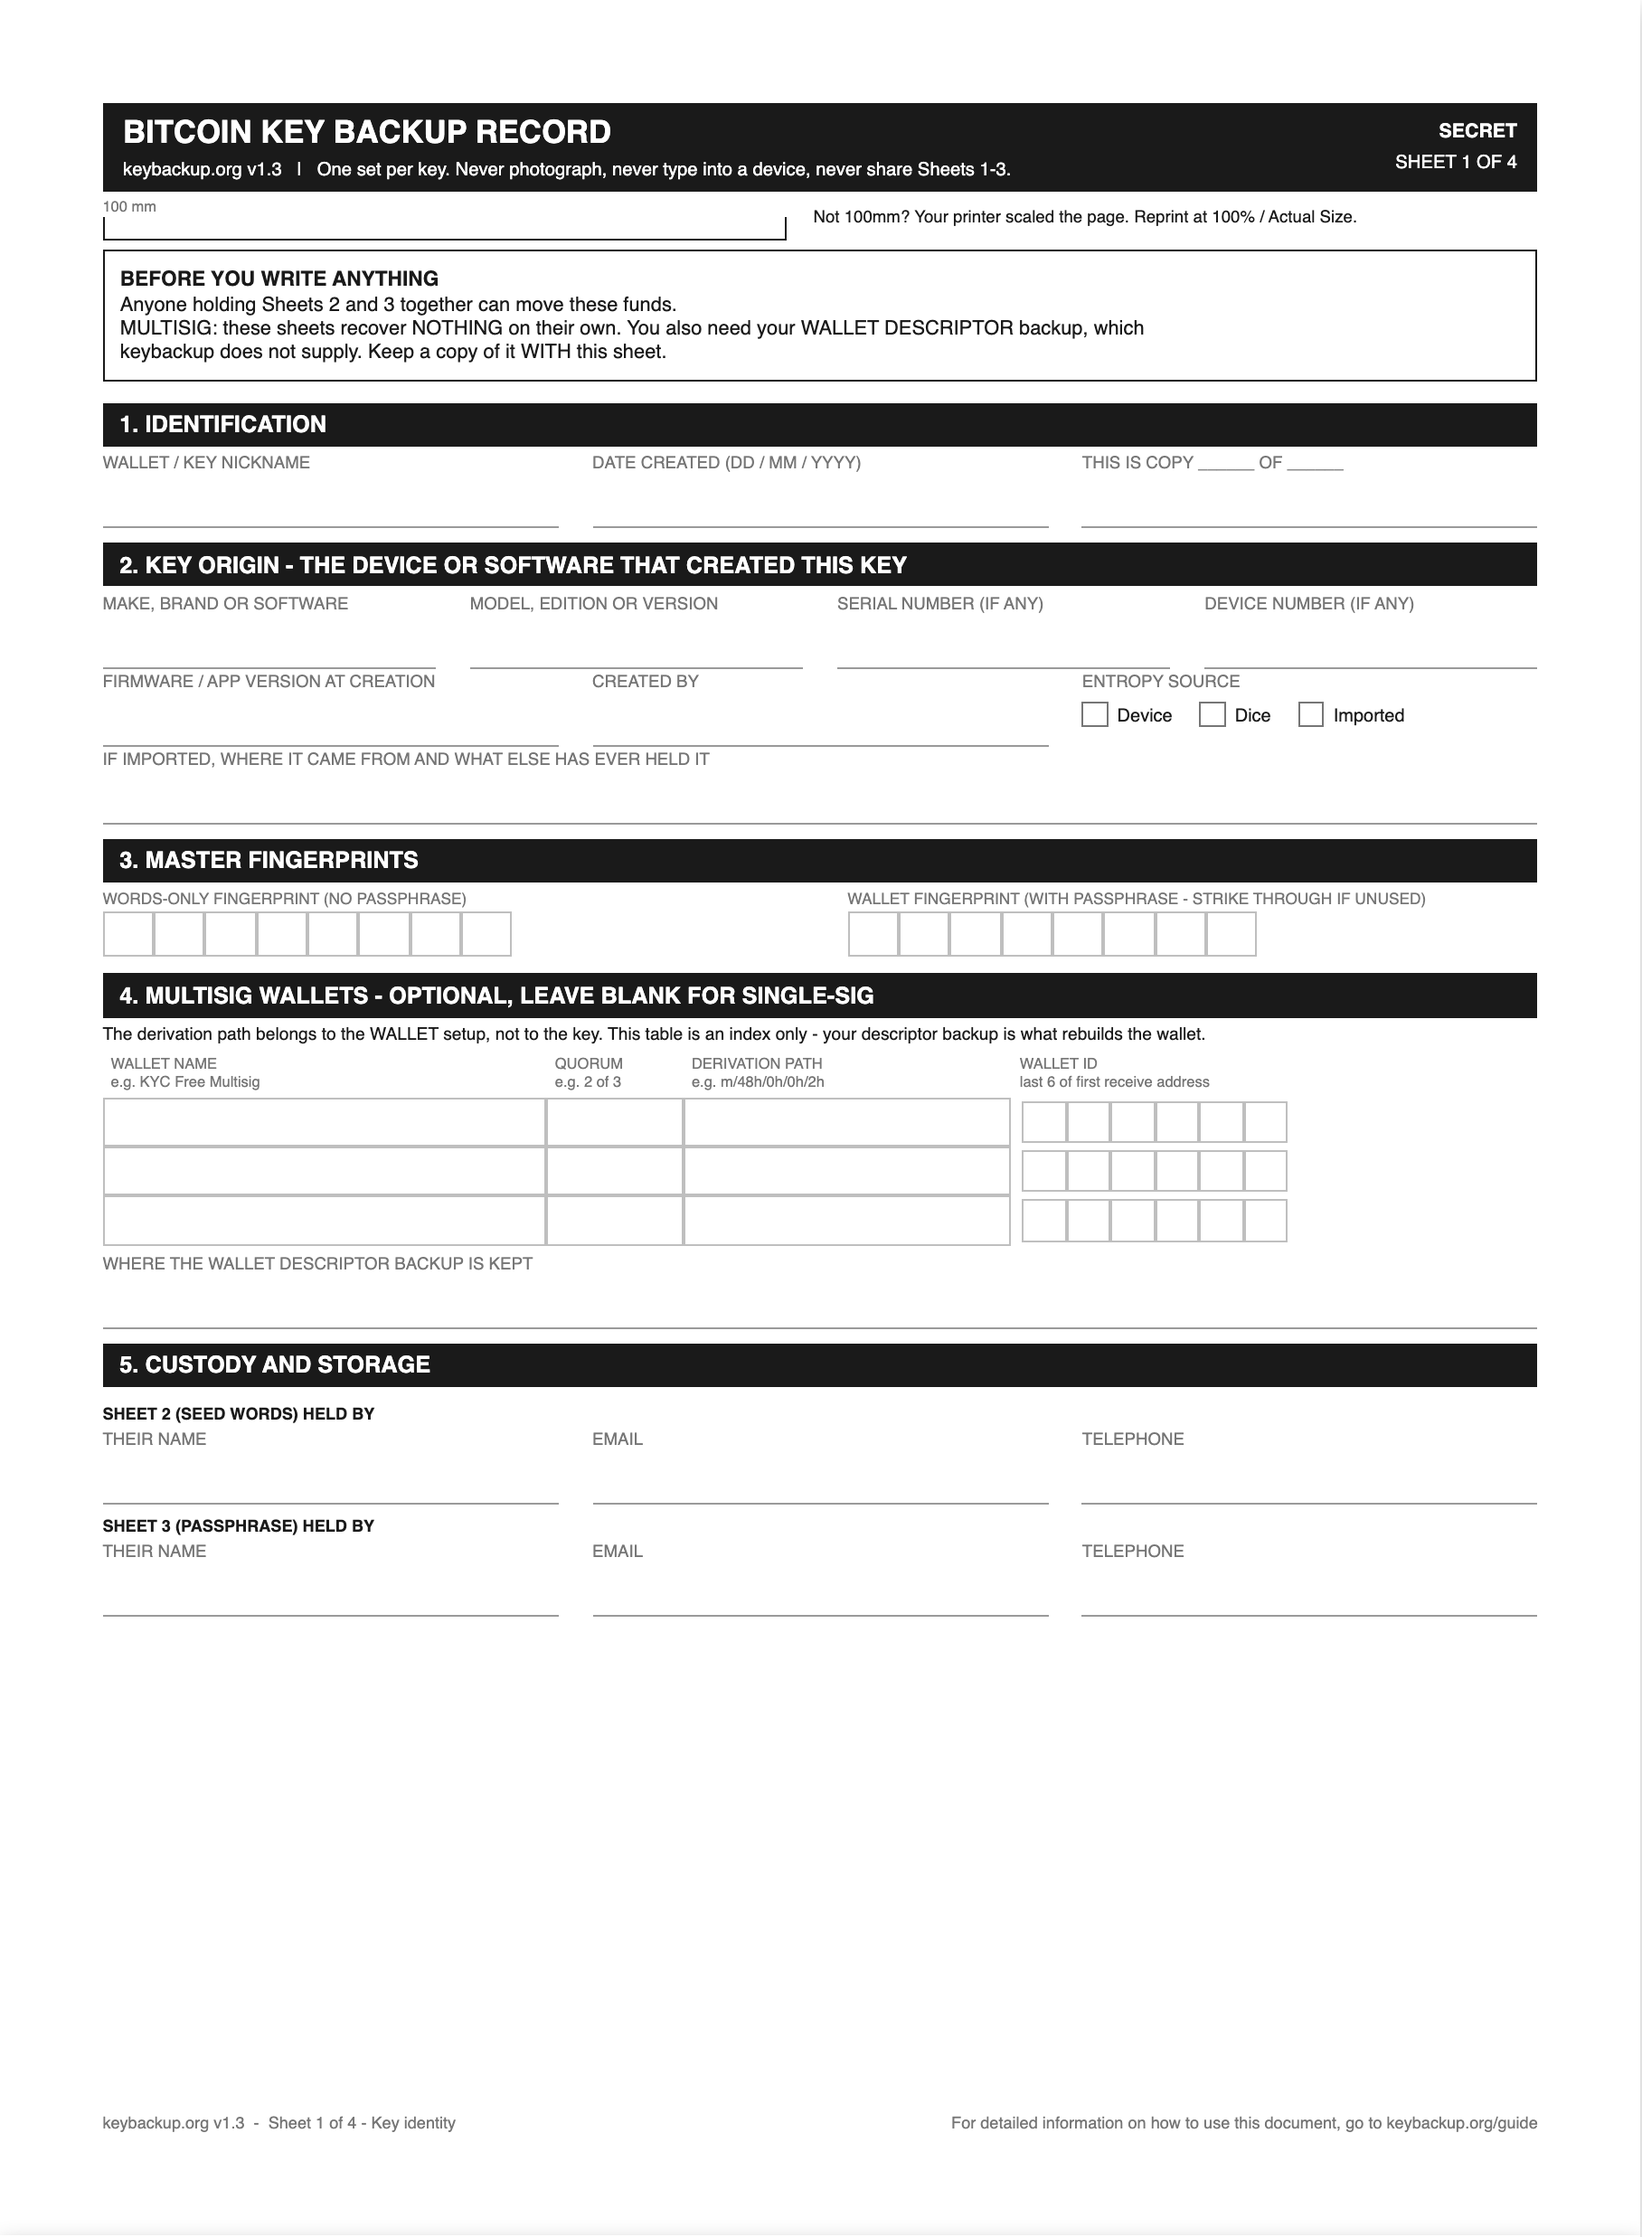
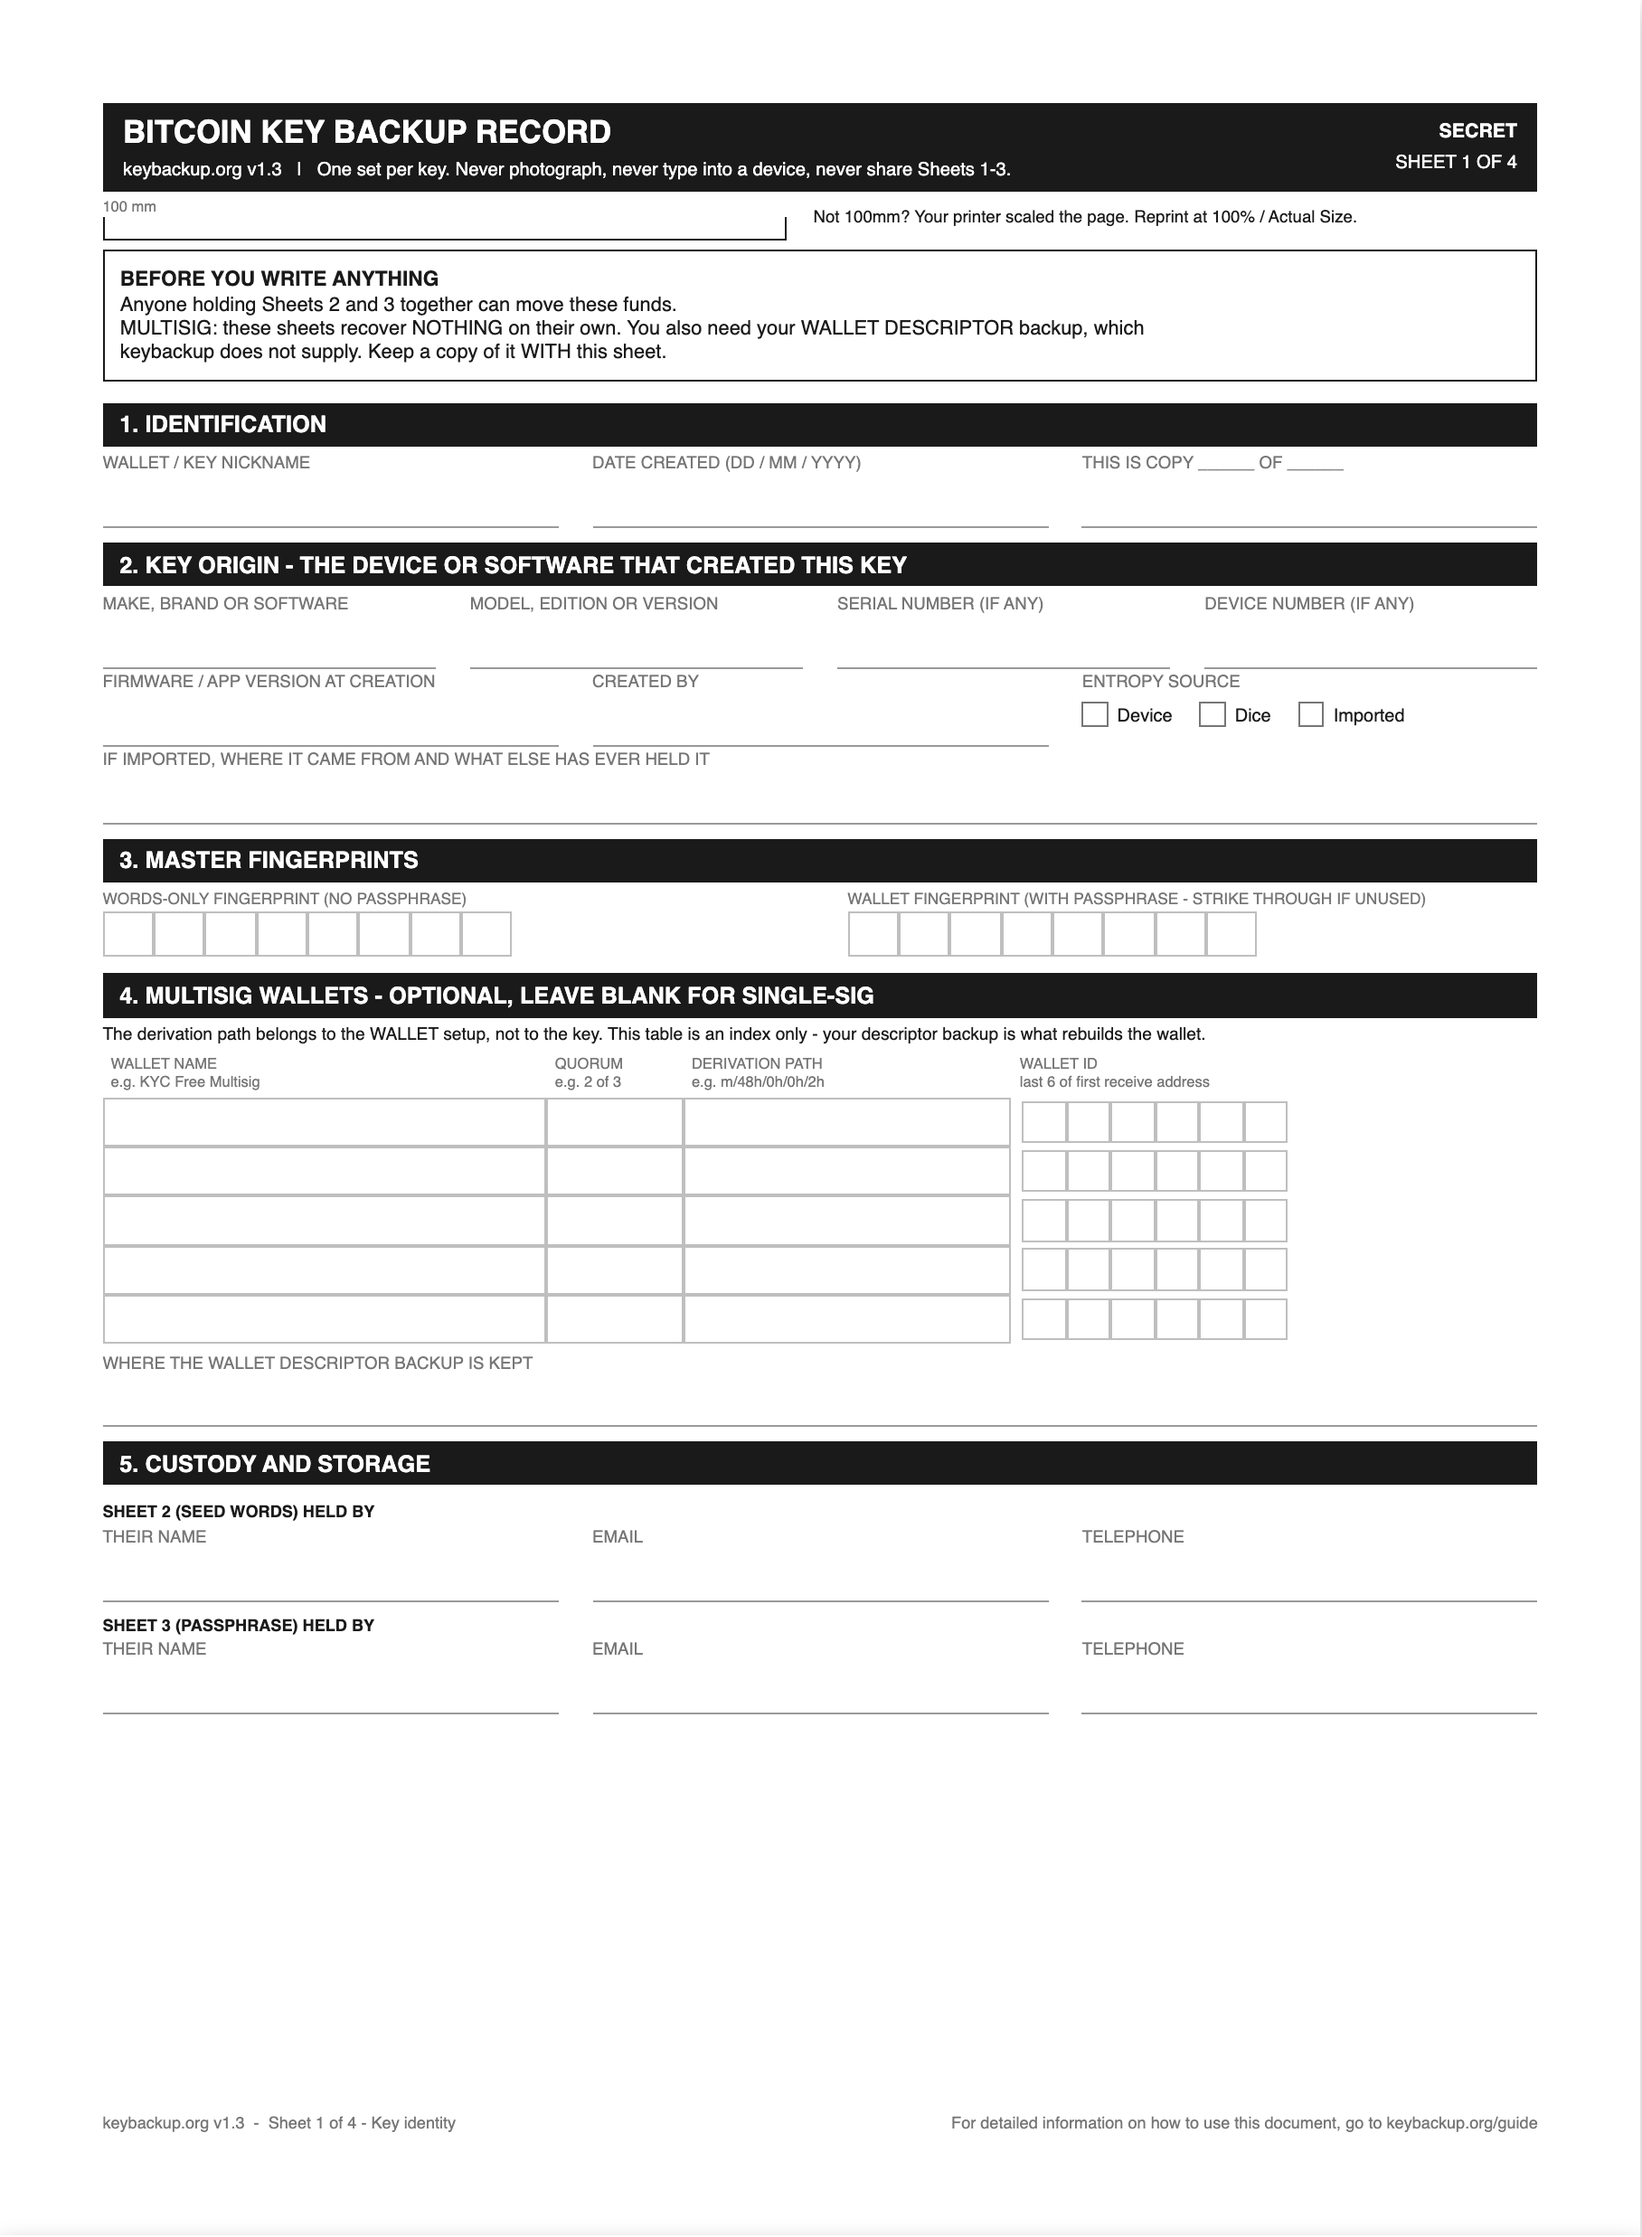
Expand v1.3 multisig table

Changed region(s): [[0.0617, 0.5602, 0.9559, 0.747]]

diff --git a/public/keybackup-v1.3.html b/public/keybackup-v1.3.html
@@ -296,7 +296,6 @@ body.letter .sheet { width: 186mm; }   /* Letter content width: 216 - 30 */
 .step p {
   font-size: 7.6pt;
   line-height: 1.2;
-  margin-left: 4mm;
   margin-top: 0.7mm;
 }
 
@@ -420,6 +419,14 @@ body.letter .sheet { width: 186mm; }   /* Letter content width: 216 - 30 */
       <span class="c2">QUORUM<span class="sub2">e.g. 2 of 3</span></span>
       <span class="c3">DERIVATION PATH<span class="sub2">e.g. m/48h/0h/0h/2h</span></span>
       <span>WALLET ID<span class="sub2">last 6 of first receive address</span></span>
+    </div>
+    <div class="msrow">
+      <div class="c c1"></div><div class="c c2"></div><div class="c c3"></div>
+      <div class="boxes fpcells"><i></i><i></i><i></i><i></i><i></i><i></i></div>
+    </div>
+    <div class="msrow">
+      <div class="c c1"></div><div class="c c2"></div><div class="c c3"></div>
+      <div class="boxes fpcells"><i></i><i></i><i></i><i></i><i></i><i></i></div>
     </div>
     <div class="msrow">
       <div class="c c1"></div><div class="c c2"></div><div class="c c3"></div>

diff --git a/guide/index.html b/guide/index.html
@@ -435,9 +435,7 @@
                   </p>
                   <p>
                     Reading a path back: <code>m/48'/0'/0'/2'</code> is a
-                    multisig using native segwit. A second multisig on the same
-                    device usually increments the third number, so it appears as
-                    <code>m/48'/0'/1'/2'</code>.
+                    native SegWit multisig path under BIP48.
                   </p>
                   <p>
                     <strong>Wallet ID.</strong> Copy the last six characters of

diff --git a/README.md b/README.md
@@ -22,8 +22,8 @@ years later. Anyone holding sheets 2 and 3 together can move the funds,
 so a filled-in set is handled like bearer cash: written by hand, never
 photographed, never typed into any device.
 
-For a **single-signature** wallet that is the whole job. The seed words
-on Sheet 2 recover your funds and you need nothing else.
+For an ordinary **single-signature** wallet without a passphrase, that
+is the whole job. If you use a passphrase, you also need Sheet 3.
 
 ## Multisig needs a second backup, and keybackup does not supply it
 
@@ -37,9 +37,9 @@ funds are lost.
 That descriptor backup is yours to create and hold. These sheets are
 not it. Sheet 1 has a table for recording *which* multisig wallets a key
 belongs to, but that table is an index, so a future recoverer knows what
-to go looking for. It does not rebuild anything. The eight-character
-checksum field catches a transcription error in a descriptor you already
-have; it cannot reconstruct one.
+to go looking for. It does not rebuild anything. Its six-character
+wallet ID is taken from the first receiving address, which helps identify
+the same recovered wallet across compatible software.
 
 **The recommended form is a BC-UR2 QR code of the wallet descriptor,
 printed on paper.** BC-UR2 is a Blockchain Commons encoding that Bitcoin

diff --git a/CONTRIBUTING.md b/CONTRIBUTING.md
@@ -56,7 +56,7 @@ is always the one that fails first, so a change that fits A4 is not
 evidence of anything.
 
 Every sheet is tight. As of v1.3, sheets 1, 2, 3 and 4 have roughly
-1mm, 6mm, 3mm and 6mm of spare room on Letter respectively, so there
+8mm, 11mm, 4mm and 9mm of spare room on Letter respectively, so there
 is very little room to spend anywhere. A change that needs more room
 than a sheet has means finding it elsewhere on that sheet, not letting
 the sheet grow.

diff --git a/CHANGELOG.md b/CHANGELOG.md
@@ -31,7 +31,7 @@ they always describe the current document.
   words-only fingerprint on Sheets 1, 2 and 3. A recovery can now check
   the words before the passphrase, then check the passphrase separately.
 - The multisig table now includes examples for wallet names and
-  derivation paths.
+  derivation paths, and supports five wallets per key.
 
 ### Changed
 
